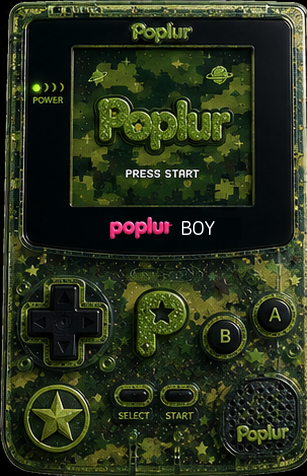
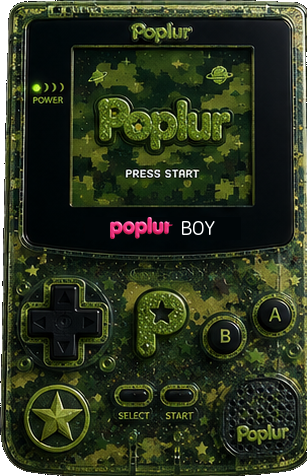
Cut the shells out to transparency; drop the black surround
The black sides were baked into the PNGs, not painted by CSS: the crop is
the device's bounding box, and the device is rounded, so its corners and
edges carried the contact sheet's black backdrop with them. No amount of
CSS could remove a colour that was in the image.

The backdrop is now flood-filled to alpha FROM THE BORDER only. A global
"near-black -> transparent" would have punched holes straight through the
bezel, the D-pad and the A/B buttons, which are all near-black themselves;
only background reachable from an edge is cleared.

Threshold had to be tightened for camo_green and retro_neon. Those two
shells are dark enough that the first pass leaked out of the backdrop and
ate 51% and 56% of the device. At 16 they clear 1.8% and 1.3%, in line
with the other eight (1.3-4.8%) -- that spread is now the check that the
fill stayed in the background.

With the art cut out, .stage's own background became visible as letterbox
bars, so it is gone. The device sits directly on its own blurred art,
overscanned further so the blur never shows an edge.

diff --git a/src/ArcadeScreen.module.css b/src/ArcadeScreen.module.css
@@ -17,7 +17,9 @@
   position: absolute; inset: 0;
   display: grid; place-items: center;
   overflow: hidden;
-  background: #0b040d;
+  /* No background of its own. The shell PNGs are cut out to transparency, so
+     any colour here would show through as letterbox bars around a device that
+     is meant to sit directly on its own blurred art. */
   /* Declares ITSELF as the container the shell sizes against.
    *
    * Without this, the cqw/cqh below have no container ancestor and fall back to
@@ -41,8 +43,8 @@
   position: absolute; inset: 0;
   width: 100%; height: 100%;
   object-fit: cover;
-  transform: scale(1.35);        /* hides the blur's soft edges */
-  filter: blur(34px) saturate(1.25) brightness(0.62);
+  transform: scale(1.6);         /* overscan so the blur never shows an edge */
+  filter: blur(38px) saturate(1.3) brightness(0.66);
   pointer-events: none;
 }
 
